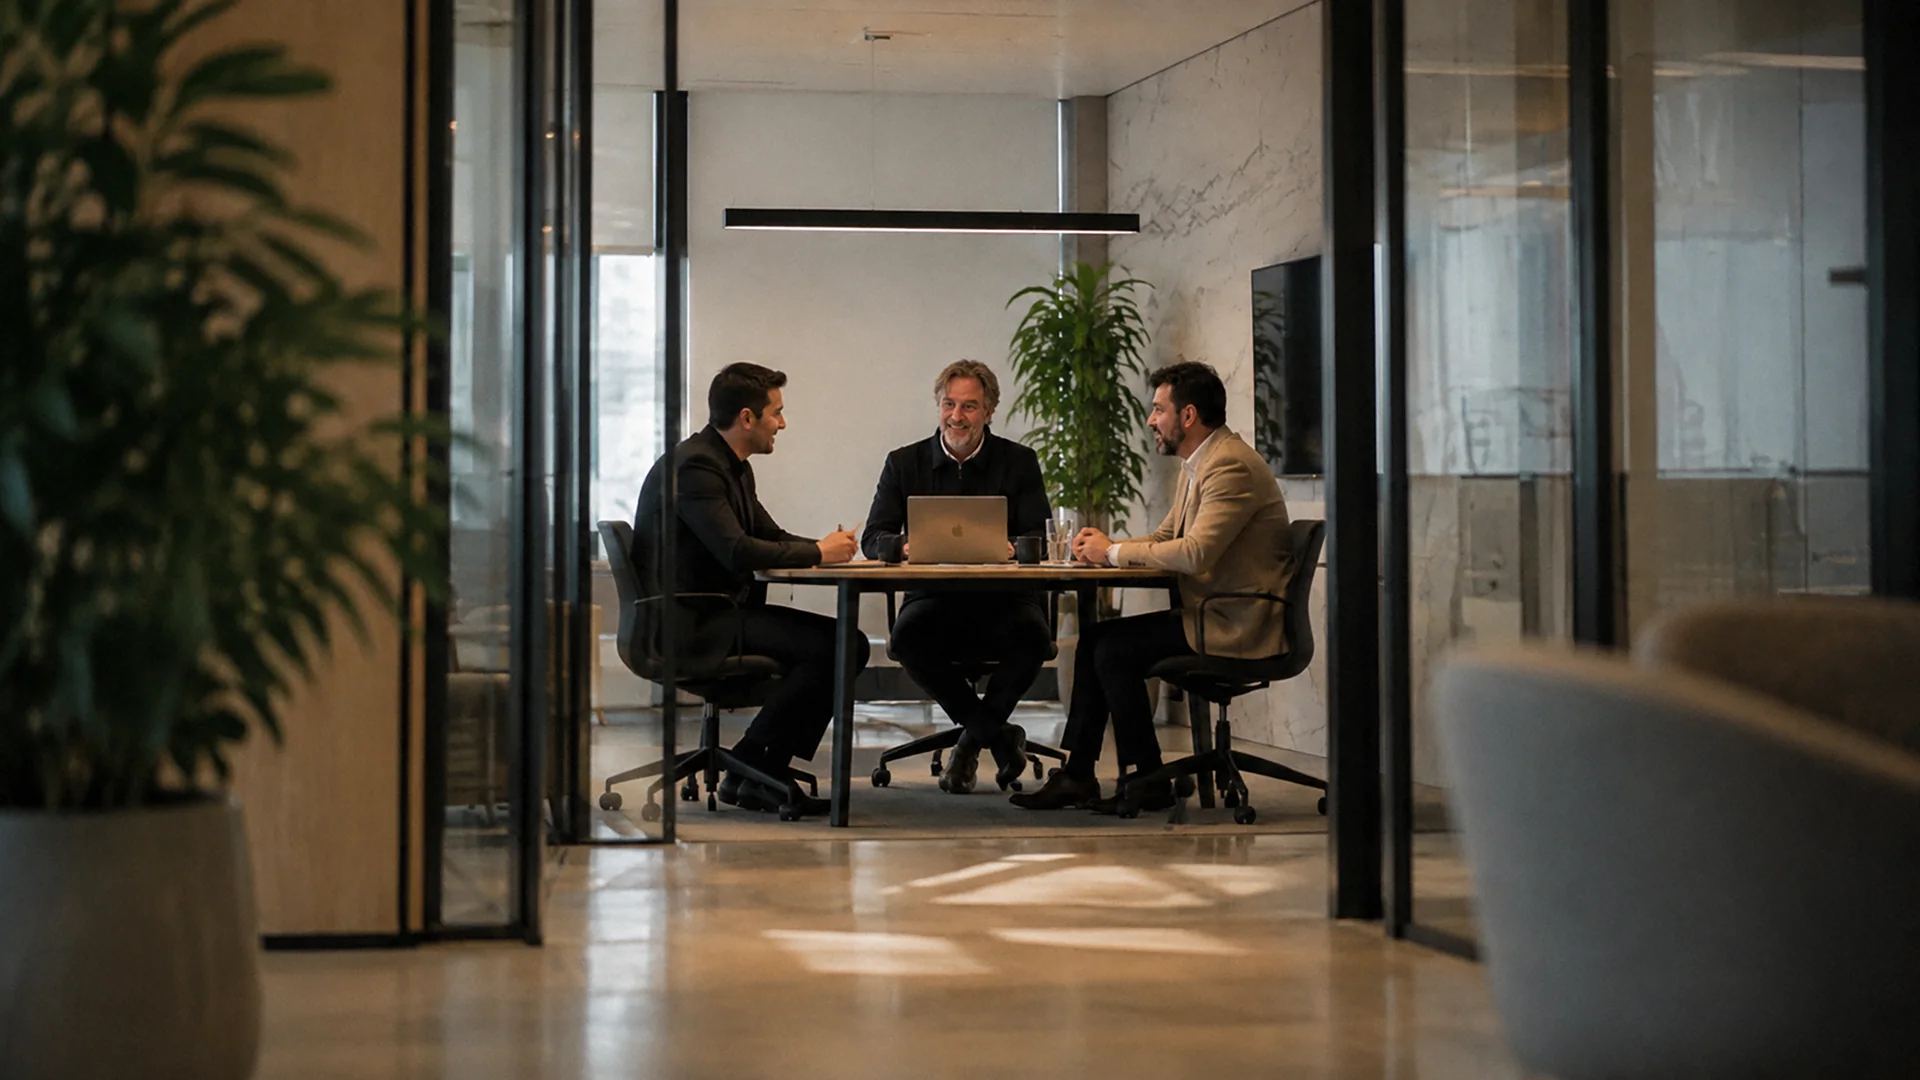
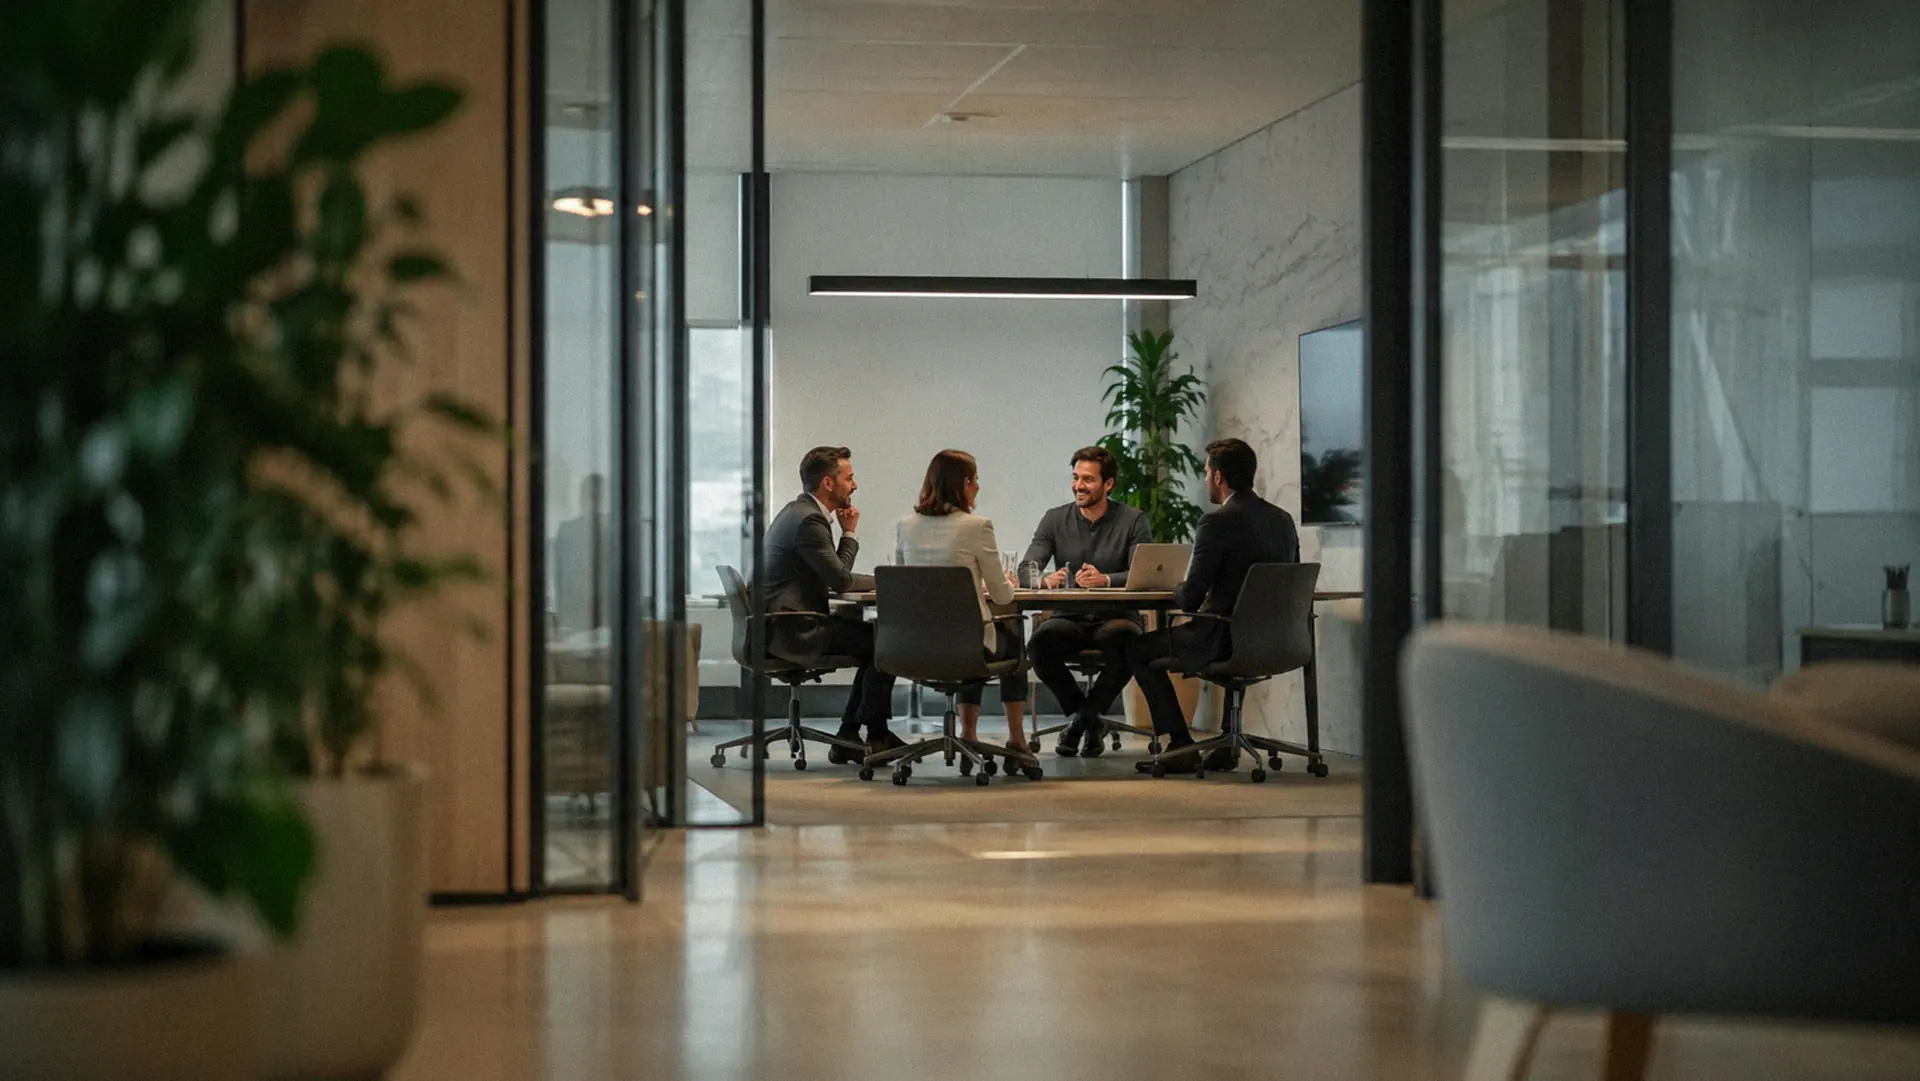
«Nuestro equipo» pasa a «Cómo Pensamos»
Cambia el titular de la portada, la entrada del menu y el <title> de la
pagina, y entran las dos fotos nuevas. La URL se queda en /nosotros: solo
cambia el rotulo, asi que no hay enlaces ni posicionamiento que romper.

El enfasis del titular va al reves que en el resto de las portadas —«Como» en
fino y «Pensamos» en fuerte—, que es lo que pide el diseno. En el menu se
mantiene el patron del sitio, con la primera palabra fuerte, para que esa
entrada no desentone con las otras tres.

Los dos parrafos del panel se invierten y el de «Un buen proyecto» pierde el
«Creemos que» del arranque.

La foto del panel ya no es la de los socios sino la de los planos y las
muestras, asi que el archivo pasa de equipo.webp a planos.webp y la clase
nosotros__equipo se funde en nosotros__foto, que era la unica que quedaba. Es
vertical 3:4 donde la anterior era casi cuadrada: el bloque gana alto, con la
misma proporcion foto/texto que muestra el diseno.

La portada va a calidad 76 —94 KB, es el LCP de la pagina— y la del panel a
80: lleva lineas finas y texto pequeno del plano donde la compresion se nota.

diff --git a/src/config/site.ts b/src/config/site.ts
@@ -30,7 +30,7 @@ export const MARCA_PORTADA = 'novara';
 // Cada ítem se parte en dos: la primera palabra va en medium y la segunda en
 // light. El PDF de ajustes los pasó a español.
 export const nav = [
-  { fuerte: 'Nuestro', suave: 'equipo', label: 'Nuestro equipo', href: '/nosotros' },
+  { fuerte: 'Cómo', suave: 'Pensamos', label: 'Cómo Pensamos', href: '/nosotros' },
   { fuerte: 'Seamos', suave: 'partners', label: 'Seamos partners', href: '/be-partner' },
   {
     fuerte: 'Nuestras',
